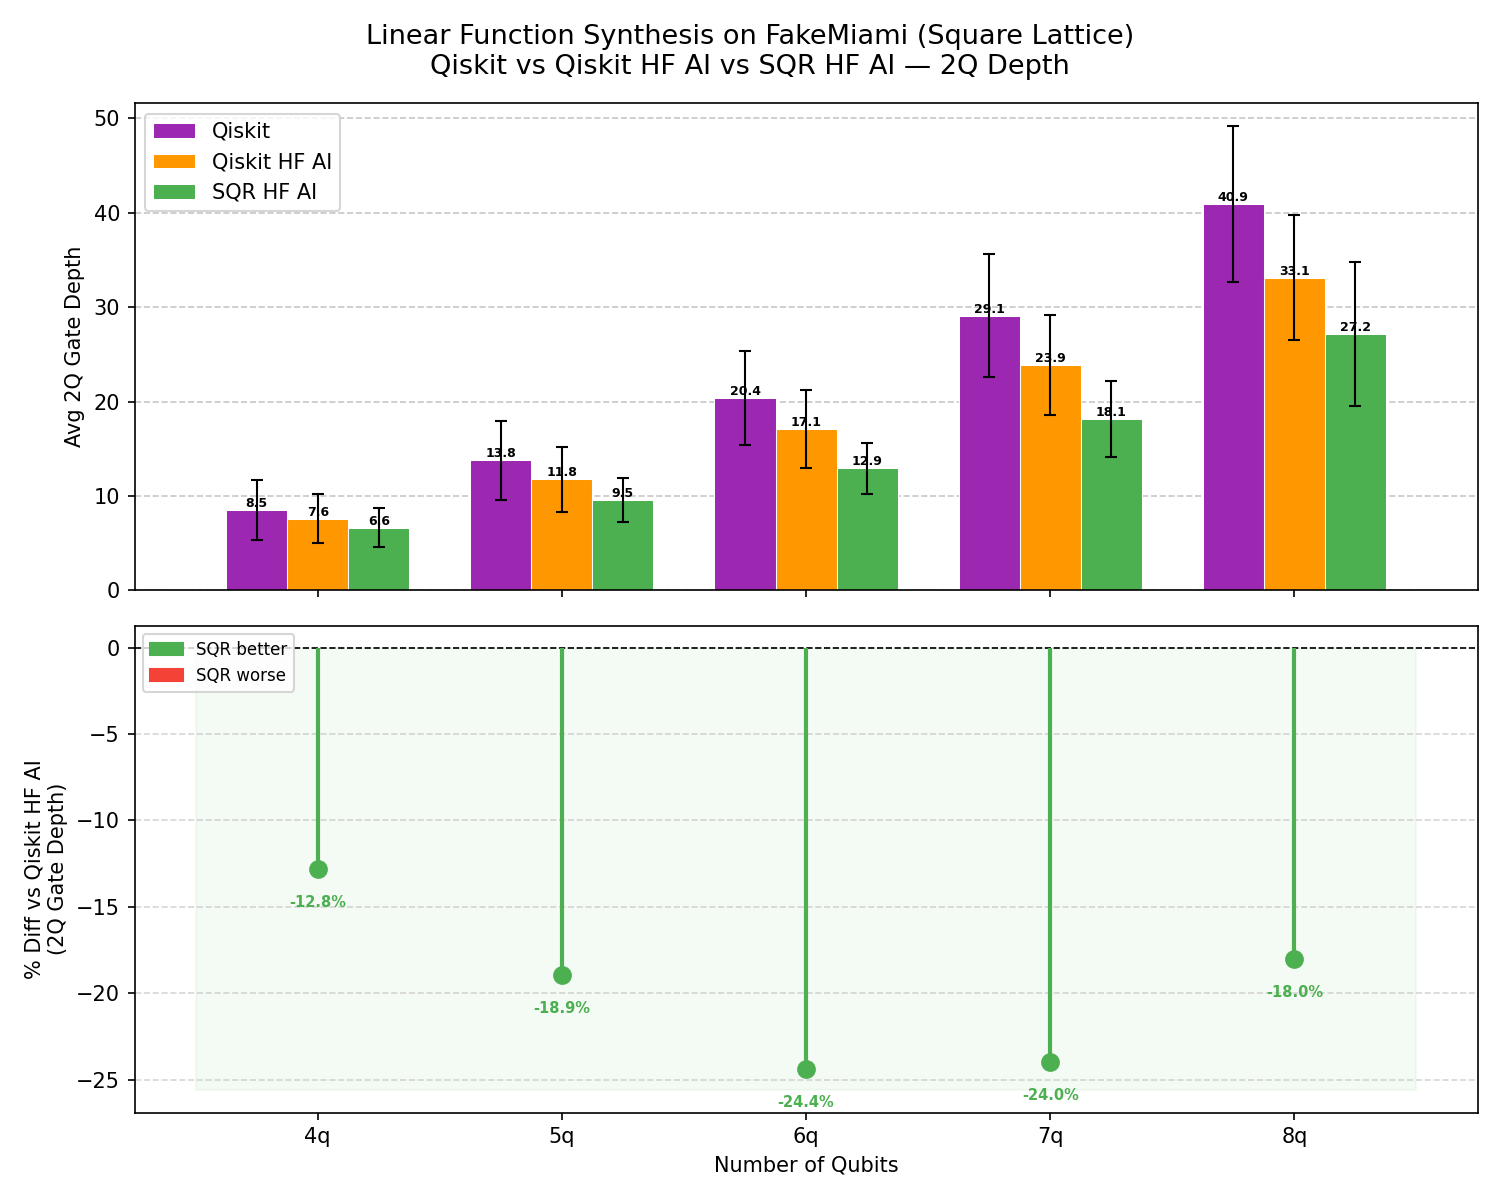
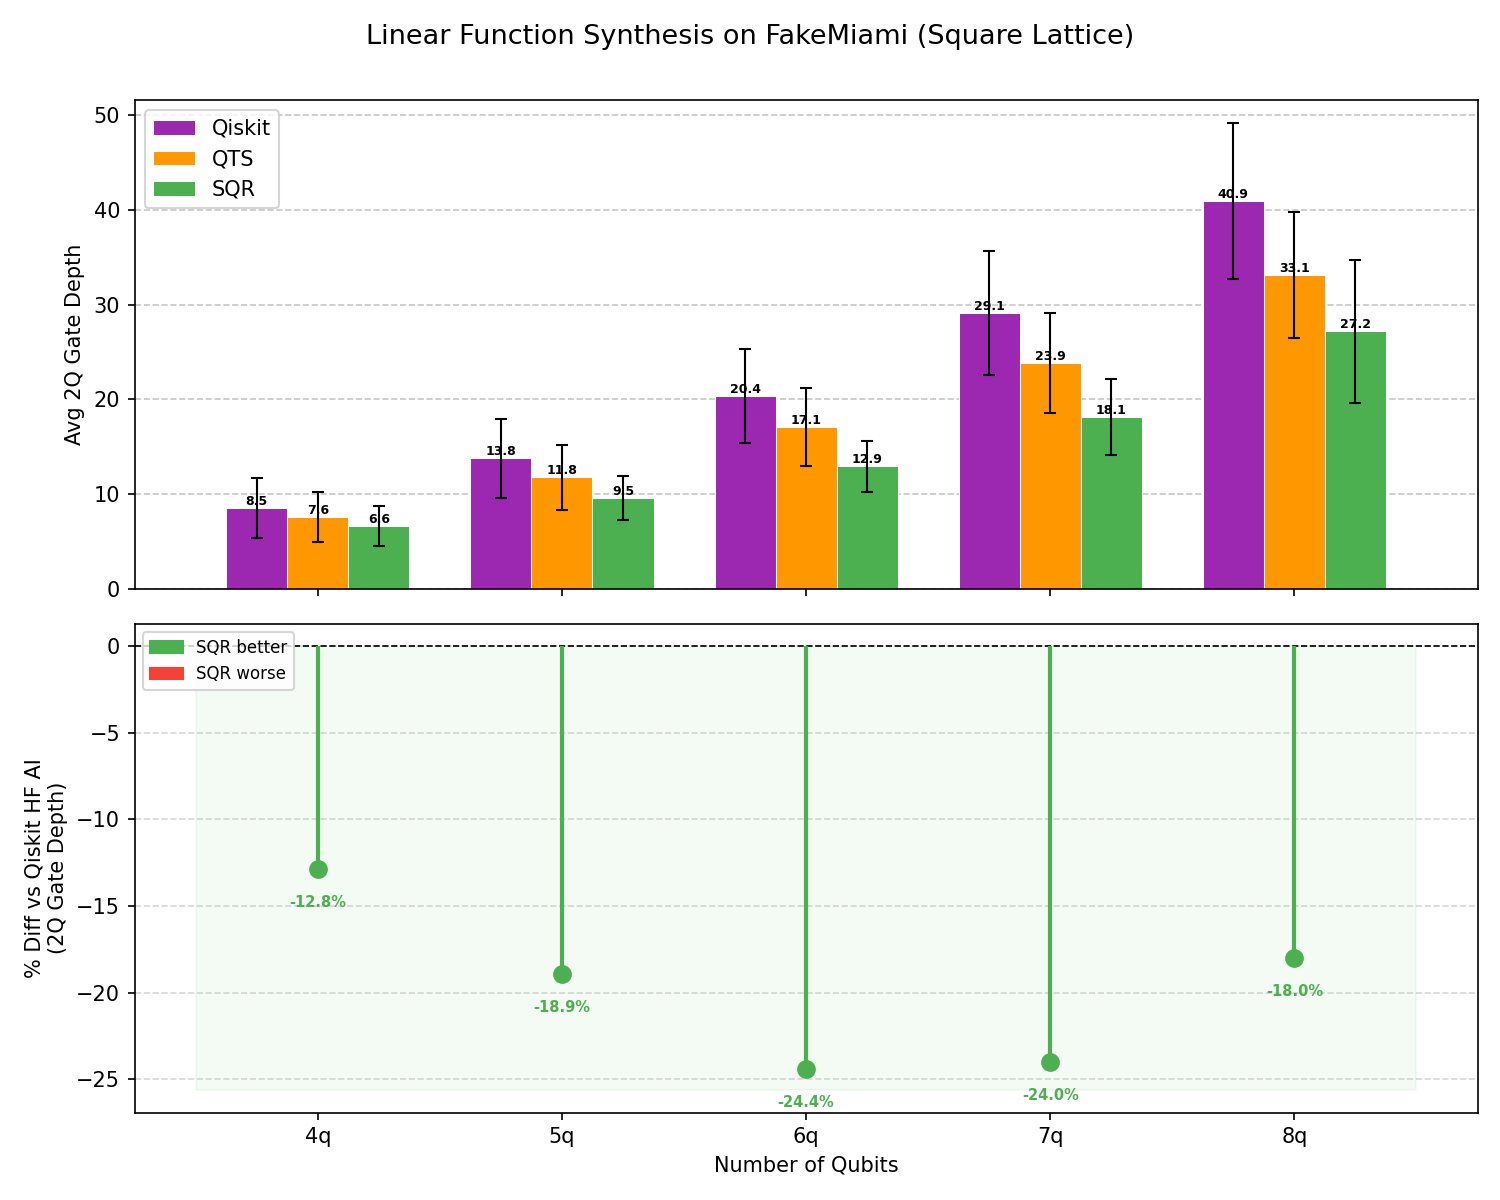
Expand README and refine benchmark plots
README: document setup, Benchpress entry points, full pipeline and repo layout.

Plotting:
- offset qiskit_hf lollipops to -0.15 so they no longer overlap the sqr series
- rename labels Qiskit HF AI / SQR HF AI -> QTS / SQR
- enlarge bar value labels (6pt -> 9pt) and rotate them vertical
- pad lollipop y-limits so percentage labels are not clipped
- cap qasm depth panel at +25%
- simplify random-LF figure suptitle

Results: refresh miami depth figure, add benchpress qasm depth figure,
drop superseded miami scatter and summit input plots.

diff --git a/plotting/plot_benchpress_summit.py b/plotting/plot_benchpress_summit.py
@@ -107,7 +107,7 @@ def plot_bar_panels(axes, data, tests, x, legend_patches):
 
 def plot_total_panel(ax, data, tests, x, pct_legend):
     ref_total = get_vals(data["qiskit"], tests, "total_gates")
-    lollipop_pct(ax, x,        ref_total, get_vals(data["qiskit_hf"], tests, "total_gates"), COLORS["qiskit_hf"], LABELS["qiskit_hf"])
+    lollipop_pct(ax, x - 0.15, ref_total, get_vals(data["qiskit_hf"], tests, "total_gates"), COLORS["qiskit_hf"], LABELS["qiskit_hf"])
     lollipop_pct(ax, x + 0.15, ref_total, get_vals(data["sqr"],       tests, "total_gates"), COLORS["sqr"],       LABELS["sqr"])
     style_pct_axis(ax, tests)
     ax.set_title("Total Gate Count % Difference vs Qiskit  [negative = fewer gates]")
@@ -116,13 +116,13 @@ def plot_total_panel(ax, data, tests, x, pct_legend):
 
 def plot_quality_panels(axes, data, tests, x):
     ref_2q = get_vals(data["qiskit"], tests, "2q")
-    lollipop_pct(axes[0], x,        ref_2q, get_vals(data["qiskit_hf"], tests, "2q"), COLORS["qiskit_hf"], LABELS["qiskit_hf"])
+    lollipop_pct(axes[0], x - 0.15, ref_2q, get_vals(data["qiskit_hf"], tests, "2q"), COLORS["qiskit_hf"], LABELS["qiskit_hf"])
     lollipop_pct(axes[0], x + 0.15, ref_2q, get_vals(data["sqr"],       tests, "2q"), COLORS["sqr"],       LABELS["sqr"])
     style_pct_axis(axes[0], tests)
     axes[0].set_title("2Q Gate Count % Difference vs Qiskit  [negative = fewer gates]")
 
     ref_depth = get_vals(data["qiskit"], tests, "depth")
-    lollipop_pct(axes[1], x,        ref_depth, get_vals(data["qiskit_hf"], tests, "depth"), COLORS["qiskit_hf"], LABELS["qiskit_hf"])
+    lollipop_pct(axes[1], x - 0.15, ref_depth, get_vals(data["qiskit_hf"], tests, "depth"), COLORS["qiskit_hf"], LABELS["qiskit_hf"])
     lollipop_pct(axes[1], x + 0.15, ref_depth, get_vals(data["sqr"],       tests, "depth"), COLORS["sqr"],       LABELS["sqr"])
     style_pct_axis(axes[1], tests)
     axes[1].set_title("2Q Gate Depth % Difference vs Qiskit  [negative = shallower]")
@@ -191,9 +191,10 @@ def main():
         axes[0].legend(handles=legend_patches, loc="upper left")
 
         ref_depth = get_vals(data["qiskit"], tests, "depth")
-        lollipop_pct(axes[1], x,        ref_depth, get_vals(data["qiskit_hf"], tests, "depth"), COLORS["qiskit_hf"], LABELS["qiskit_hf"])
+        lollipop_pct(axes[1], x - 0.15, ref_depth, get_vals(data["qiskit_hf"], tests, "depth"), COLORS["qiskit_hf"], LABELS["qiskit_hf"])
         lollipop_pct(axes[1], x + 0.15, ref_depth, get_vals(data["sqr"],       tests, "depth"), COLORS["sqr"],       LABELS["sqr"])
         style_pct_axis(axes[1], tests)
+        axes[1].set_ylim(top=25)
         axes[1].set_title("2Q Gate Depth % Difference vs Qiskit  [negative = shallower]")
         axes[1].legend(handles=pct_legend, loc="upper left", fontsize=8)
         stem = "benchpress_qasm_depth"

diff --git a/plotting/plot_utils.py b/plotting/plot_utils.py
@@ -24,7 +24,7 @@ def next_plot_path(directory, stem, ext="png"):
 
 METHODS = ["qiskit", "qiskit_hf", "sqr"]
 COLORS  = {"qiskit": "#9C27B0", "qiskit_hf": "#FF9800", "sqr": "#4CAF50"}
-LABELS  = {"qiskit": "Qiskit",  "qiskit_hf": "Qiskit HF AI", "sqr": "SQR HF AI"}
+LABELS  = {"qiskit": "Qiskit",  "qiskit_hf": "QTS", "sqr": "SQR"}
 
 
 def bar_group(ax, x, vals_by_method, w=0.25, errs_by_method=None, log=False):
@@ -41,10 +41,10 @@ def bar_group(ax, x, vals_by_method, w=0.25, errs_by_method=None, log=False):
         for xi, v in zip(x + offset, vals):
             if np.isnan(float(v)):
                 ax.text(xi, 0.5 if not log else 1, "N/A",
-                        ha="center", va="bottom", fontsize=6, color="grey", rotation=90)
+                        ha="center", va="bottom", fontsize=9, color="grey", rotation=90)
             else:
                 ax.text(xi, float(v), f"{int(v)}" if v == int(v) else f"{v:.1f}",
-                        ha="center", va="bottom", fontsize=6, fontweight="bold", color="black")
+                        ha="center", va="bottom", fontsize=9, fontweight="bold", color="black", rotation=90)
     if log:
         ax.set_yscale("log")
 
@@ -70,4 +70,7 @@ def lollipop_pct(ax, x, ref_vals, cmp_vals, color, label):
         va = "top" if v < 0 else "bottom"
         offset_y = -1.5 if v < 0 else 1.5
         ax.text(xi, v + offset_y, f"{v:+.1f}%", ha="center", va=va,
-                fontsize=7, fontweight="bold", color=stem_color)
+                fontsize=9, fontweight="bold", color=stem_color)
+    ymin, ymax = ax.get_ylim()
+    y_range = max(ymax - ymin, 1.0)
+    ax.set_ylim(ymin - 0.05 * y_range, ymax + 0.15 * y_range)

diff --git a/plotting/plot_random_lf_circuits.py b/plotting/plot_random_lf_circuits.py
@@ -263,9 +263,7 @@ def plot(rows, backend_name="miami", panels="all"):
         axes[-1].set_xticklabels([f"{n}q" for n in qubit_counts])
         axes[-1].set_xlabel("Number of Qubits")
         fig.suptitle(
-            f"Linear Function Synthesis on {_backend_label(backend_name)}\n"
-            "Qiskit vs Qiskit HF AI vs SQR HF AI"
-            + (" — 2Q Depth" if panels == "depth" else ""),
+            f"Linear Function Synthesis on {_backend_label(backend_name)}\n",
             fontsize=13,
         )
         plt.tight_layout()

diff --git a/README.md b/README.md
@@ -1,31 +1,67 @@
-It has to be python version 3.10
+# squarebench
+
+Train and benchmark RL-based linear-function synthesis on **square-lattice** topologies, and compare against Qiskit and the Qiskit transpiler service on the Benchpress suite.
+
+## Contents
+
+- [Setup](#setup)
+- [Running benchmarks (Benchpress)](#running-benchmarks-benchpress)
+- [Project pipeline](#project-pipeline)
+  - [1. Pretraining — enumerate topologies](#1-pretraining--enumerate-topologies)
+  - [2. Training — train RL models](#2-training--train-rl-models)
+  - [3. Evaluation — measure model quality](#3-evaluation--measure-model-quality)
+  - [4. Plotting — visualise results](#4-plotting--visualise-results)
+- [Repository layout](#repository-layout)
+
+## Setup
+
+Requires **Python 3.10**.
+
 ```bash
+# create + activate venv
 python3.10 -m venv .venv
-```
-install dependencies:
-```bash
-pip install -r req
-```
-install benchpress:
-```bash
+source .venv/bin/activate
+
+# install dependencies
+pip install -r requirements.txt
+
+# install benchpress
 pip install git+https://github.com/Qiskit/benchpress
-```
 
-
-install qiskit_gym 0.4.x inside .venv/python3.10/site-packages (older versions give error):
-````bash
+# install qiskit_gym 0.4.x (older versions fail)
 pip install git+https://github.com/AI4quantum/qiskit-gym.git@0.4.0
 ```
-commands: 
-python -m pytest --timeout-skip-list=600 --benchmark-save=qiskit  benchpress/qiskit_gym
-python -m pytest --timeout-skip-list=600 --benchmark-save=ai-test-summit  benchpress/qiskit_transpiler_service_gym/device_transpile/test_summit.py
 
+## Running benchmarks (Benchpress)
 
-## Project Pipeline
+Benchpress runs as a pytest suite. Use `--benchmark-save=<tag>` to write results to `.benchmarks/` for later comparison and plotting.
+
+```bash
+# Qiskit baseline on the qiskit_gym suite
+python -m pytest --timeout-skip-list=600 \
+  --benchmark-save=qiskit \
+  benchpress/qiskit_gym
+
+# Qiskit transpiler service (AI) on the Summit test
+python -m pytest --timeout-skip-list=600 \
+  --benchmark-save=ai-test-summit \
+  benchpress/qiskit_transpiler_service_gym/test_summit_qts.py
+```
+
+Other entry points:
+
+| Path | Suite |
+|---|---|
+| [benchpress/qiskit_gym/test_summit.py](benchpress/qiskit_gym/test_summit.py) | Qiskit on Summit input circuits |
+| [benchpress/qiskit_gym/test_summit_sqr.py](benchpress/qiskit_gym/test_summit_sqr.py) | Qiskit + square-lattice RL on Summit |
+| [benchpress/qiskit_transpiler_service_gym/test_summit_qts.py](benchpress/qiskit_transpiler_service_gym/test_summit_qts.py) | Qiskit transpiler service on Summit |
+| [benchpress/test_qasm_miami.py](benchpress/test_qasm_miami.py) | QASMBench on the Miami backend |
+
+## Project pipeline
 
 ### 1. Pretraining — enumerate topologies
 
-Generate all unique connected subgraphs (2–8 nodes) of the 5×5 square lattice and save them:
+Generate all unique connected subgraphs (2–8 nodes) of the 5×5 square lattice:
 ```bash
 python pretraining/generate_square_lattice_subgraphs.py
 # outputs: unique_subgraphs.pkl
@@ -61,25 +97,48 @@ python evaluation/evaluate_square_lattice.py
 # outputs: results/evaluate_<timestamp>.csv
 ```
 
-Compare RL synthesis against Qiskit transpilation on the same circuits:
+Benchmark RL synthesis on random linear functions:
 ```bash
-python evaluation/compare_qiskit.py
-# outputs: results/compare_<timestamp>.csv
+python evaluation/benchmark_linear_functions.py
+```
+
+Merge benchmark runs / check isomorphism between topologies:
+```bash
+python evaluation/merge_benchmark.py
+python evaluation/check_isomorphism.py
 ```
 
 ### 4. Plotting — visualise results
 
 | Script | Input | What it shows |
 |---|---|---|
-| `plotting/plot_model_correctness.py` | `results/evaluate_*.csv` | Per-model success rate after training |
-| `plotting/plot_training_progress.py` | TensorBoard runs in `runs/` | Training curves by qubit size |
-| `plotting/plot_training_duration.py` | `runs/` | Wall-clock training time per topology |
-| `plotting/plot_variance.py` | `results/compare_*.csv` | Std-dev of 2Q gate count / depth across methods |
-| `plotting/plot_benchpress_summit.py` | Benchpress JSON output | 2Q gate count & depth vs Qiskit on the Summit suite |
-| `plotting/plot_topology.py` | `square_lattice_configs/*.json` | Coupling-map diagram for a single topology |
+| [plotting/plot_model_correctness.py](plotting/plot_model_correctness.py) | `results/evaluate_*.csv` | Per-model success rate after training |
+| [plotting/plot_training_progress.py](plotting/plot_training_progress.py) | TensorBoard runs in `runs/` | Training curves by qubit size |
+| [plotting/plot_training_duration.py](plotting/plot_training_duration.py) | `runs/` | Wall-clock training time per topology |
+| [plotting/plot_variance.py](plotting/plot_variance.py) | benchmark CSVs | Std-dev of 2Q gate count / depth across methods |
+| [plotting/plot_benchpress_summit.py](plotting/plot_benchpress_summit.py) | Benchpress JSON output | 2Q gate count & depth vs Qiskit on the Summit suite |
+| [plotting/plot_random_lf_circuits.py](plotting/plot_random_lf_circuits.py) | benchmark JSONs | Random linear-function circuit comparisons |
+| [plotting/plot_topology.py](plotting/plot_topology.py) | `square_lattice_configs/*.json` | Coupling-map diagram for a single topology |
 
 Example:
 ```bash
 python plotting/plot_model_correctness.py results/evaluate_latest.csv
 python plotting/plot_topology.py square_lattice_configs/linear_function_8qE.json -o topology_8qE.png
+```
+
+## Repository layout
+
+```
+benchpress/             # Benchpress fork — pytest-based benchmark suites
+  qiskit_gym/             # Qiskit + square-lattice RL workouts
+  qiskit_transpiler_service_gym/   # Qiskit transpiler service (AI) workouts
+  qasm/                   # QASM circuit corpora (QASMBench, QV, QFT, …)
+pretraining/            # Topology enumeration + config generation
+training/               # RL training entry points
+evaluation/             # Success-rate / gate-count evaluation
+plotting/               # Plot scripts (consume CSV / JSON outputs)
+square_lattice_configs/ # Generated per-topology training configs
+square_lattice_models/  # Trained model checkpoints
+results/                # CSVs, JSONs, and rendered plots
+runs/                   # TensorBoard run logs
 ```
